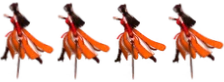
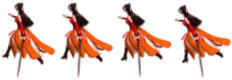
Tăng biên độ animation Việt★ cho dễ thấy khi đứng/chạy/đánh

Changed region(s): [[0.0, 0.025, 0.75, 0.975], [0.75, 0.025, 1.0, 0.975], [0.4062, 0.65, 0.4688, 0.775]]

diff --git a/index.html b/index.html
@@ -9,10 +9,10 @@
 <link rel="manifest" href="manifest.json">
 <title>NamQuoc Idle</title>
 <link rel="stylesheet" href="fonts/ibm-plex-mono.css">
-<link rel="stylesheet" href="style.css?v=287">
-<link rel="stylesheet" href="jx1ui.css?v=287">
-<link rel="stylesheet" href="jx1ui2.css?v=287">
-<link rel="stylesheet" href="ui20.css?v=287">
+<link rel="stylesheet" href="style.css?v=288">
+<link rel="stylesheet" href="jx1ui.css?v=288">
+<link rel="stylesheet" href="jx1ui2.css?v=288">
+<link rel="stylesheet" href="ui20.css?v=288">
 </head>
 <body>
 <div id="bootLoad" aria-live="polite">
@@ -88,73 +88,73 @@
   <div id="modal" class="hidden" role="dialog" aria-modal="true"><div class="mbox" tabindex="-1"><button class="mx" id="mClose">✕</button><div id="mBody"></div></div></div>
   <div id="toast" role="status" aria-live="polite"></div>
 </div>
-<script src="data.js?v=287"></script>
-<script src="setvi.js?v=287"></script>
-<script src="setfix.js?v=287"></script>
-<script src="world.js?v=287"></script>
-<script src="zones2.js?v=287"></script>
-<script src="js/som_hoason_data.js?v=287"></script>
-<script src="js/som_hoason.js?v=287"></script>
-<script src="sound.js?v=287"></script>
-<script src="fx.js?v=287"></script>
-<script src="jmo.js?v=287"></script>
-<script src="jmo2.js?v=287"></script>
-<script src="js/core.js?v=287"></script>
-<script src="js/mapobs.js?v=287"></script>
-<script src="js/stats.js?v=287"></script>
-<script src="js/vocong.js?v=287"></script>
-<script src="js/skillsys.js?v=287"></script>
-<script src="js/kytran.js?v=287"></script>
-<script src="js/loot.js?v=287"></script>
-<script src="rdata.js?v=287"></script>
-<script src="js/sets.js?v=287"></script>
-<script src="js/recipes.js?v=287"></script>
-<script src="js/combat.js?v=287"></script>
-<script src="js/field.js?v=287"></script>
-<script src="js/ride.js?v=287"></script>
-<script src="js/save.js?v=287"></script>
-<script src="js/render.js?v=287"></script>
-<script src="js/som_anim.js?v=287"></script>
-<script src="js/jxmis.js?v=287"></script>
-<script src="jxstate.js?v=287"></script>
-<script src="fx2.js?v=287"></script>
-<script src="fx3.js?v=287"></script>
-<script src="js/skillfx.js?v=287"></script>
-<script src="js/look.js?v=287"></script>
-<script src="js/jxparts.js?v=287"></script>
-<script src="js/audio.js?v=287"></script>
-<script src="js/ui.js?v=287"></script>
-<script src="js/control.js?v=287"></script>
-<script src="js/shop.js?v=287"></script>
-<script src="js/potsel.js?v=287"></script>
-<script src="js/rewards.js?v=287"></script>
-<script src="js/title.js?v=287"></script>
-<script src="js/records.js?v=287"></script>
-<script src="js/horse.js?v=287"></script>
-<script src="js/thanma.js?v=287"></script>
-<script src="js/dungeon.js?v=287"></script>
-<script src="js/giangho.js?v=287"></script>
-<script src="js/forge.js?v=287"></script>
-<script src="js/epdo.js?v=287"></script>
-<script src="js/thuyen.js?v=287"></script>
-<script src="js/mode.js?v=287"></script>
-<script src="js/tabs2.js?v=287"></script>
-<script src="js/auto.js?v=287"></script>
-<script src="js/guide.js?v=287"></script>
-<script src="js/stash.js?v=287"></script>
-<script src="js/donkho.js?v=287"></script>
-<script src="js/name.js?v=287"></script>
-<script src="js/chatcfg.js?v=287"></script>
-<script src="js/chat.js?v=287"></script>
-<script src="js/net.js?v=287"></script>
-<script src="js/mp.js?v=287"></script>
-<script src="js/mp_auth.js?v=287"></script>
-<script src="js/ui20.js?v=287"></script>
-<script src="js/ui20win.js?v=287"></script>
-<script src="js/admin.js?v=287"></script>
-<script src="js/tho_test_fx_data.js?v=287"></script>
-<script src="js/viet_char_data.js?v=287"></script>
-<script src="js/tho_test.js?v=287"></script>
-<script src="js/main.js?v=287"></script>
+<script src="data.js?v=288"></script>
+<script src="setvi.js?v=288"></script>
+<script src="setfix.js?v=288"></script>
+<script src="world.js?v=288"></script>
+<script src="zones2.js?v=288"></script>
+<script src="js/som_hoason_data.js?v=288"></script>
+<script src="js/som_hoason.js?v=288"></script>
+<script src="sound.js?v=288"></script>
+<script src="fx.js?v=288"></script>
+<script src="jmo.js?v=288"></script>
+<script src="jmo2.js?v=288"></script>
+<script src="js/core.js?v=288"></script>
+<script src="js/mapobs.js?v=288"></script>
+<script src="js/stats.js?v=288"></script>
+<script src="js/vocong.js?v=288"></script>
+<script src="js/skillsys.js?v=288"></script>
+<script src="js/kytran.js?v=288"></script>
+<script src="js/loot.js?v=288"></script>
+<script src="rdata.js?v=288"></script>
+<script src="js/sets.js?v=288"></script>
+<script src="js/recipes.js?v=288"></script>
+<script src="js/combat.js?v=288"></script>
+<script src="js/field.js?v=288"></script>
+<script src="js/ride.js?v=288"></script>
+<script src="js/save.js?v=288"></script>
+<script src="js/render.js?v=288"></script>
+<script src="js/som_anim.js?v=288"></script>
+<script src="js/jxmis.js?v=288"></script>
+<script src="jxstate.js?v=288"></script>
+<script src="fx2.js?v=288"></script>
+<script src="fx3.js?v=288"></script>
+<script src="js/skillfx.js?v=288"></script>
+<script src="js/look.js?v=288"></script>
+<script src="js/jxparts.js?v=288"></script>
+<script src="js/audio.js?v=288"></script>
+<script src="js/ui.js?v=288"></script>
+<script src="js/control.js?v=288"></script>
+<script src="js/shop.js?v=288"></script>
+<script src="js/potsel.js?v=288"></script>
+<script src="js/rewards.js?v=288"></script>
+<script src="js/title.js?v=288"></script>
+<script src="js/records.js?v=288"></script>
+<script src="js/horse.js?v=288"></script>
+<script src="js/thanma.js?v=288"></script>
+<script src="js/dungeon.js?v=288"></script>
+<script src="js/giangho.js?v=288"></script>
+<script src="js/forge.js?v=288"></script>
+<script src="js/epdo.js?v=288"></script>
+<script src="js/thuyen.js?v=288"></script>
+<script src="js/mode.js?v=288"></script>
+<script src="js/tabs2.js?v=288"></script>
+<script src="js/auto.js?v=288"></script>
+<script src="js/guide.js?v=288"></script>
+<script src="js/stash.js?v=288"></script>
+<script src="js/donkho.js?v=288"></script>
+<script src="js/name.js?v=288"></script>
+<script src="js/chatcfg.js?v=288"></script>
+<script src="js/chat.js?v=288"></script>
+<script src="js/net.js?v=288"></script>
+<script src="js/mp.js?v=288"></script>
+<script src="js/mp_auth.js?v=288"></script>
+<script src="js/ui20.js?v=288"></script>
+<script src="js/ui20win.js?v=288"></script>
+<script src="js/admin.js?v=288"></script>
+<script src="js/tho_test_fx_data.js?v=288"></script>
+<script src="js/viet_char_data.js?v=288"></script>
+<script src="js/tho_test.js?v=288"></script>
+<script src="js/main.js?v=288"></script>
 </body>
 </html>

diff --git a/js/viet_char_data.js b/js/viet_char_data.js
@@ -1,2 +1,2 @@
 /* auto-generated by tools/viet_char_build.py — nhân Việt★ trẻ + animation */
-(typeof window!=="undefined"?window:globalThis).VIET_CHAR = {"series":"Việt★","seriesCol":"#d4a017","seriesDesc":"Admin · nhân Việt trẻ (Yên Tử★ · Bạch Đằng★)","heroes":{"wudang_t":{"img":"img/pl/viet_ys.png","sz":[54,78,27,76],"anim":"pl_viet_ys","anim8":"pl_viet_ys_8","khId":600,"mode":"gold"},"kunlun_t":{"img":"img/pl/viet_bd.png","sz":[55,78,27,76],"anim":"pl_viet_bd","anim8":"pl_viet_bd_8","khId":75,"mode":"son"}},"anims":{"pl_viet_ys":{"st":{"f":"pl_viet_ys_st.webp","n":8,"d":1,"w":56,"h":83,"ax":28,"ay":81,"ms":120,"fixed":1,"flip":1},"run":{"f":"pl_viet_ys_run.webp","n":6,"d":1,"w":56,"h":86,"ax":28,"ay":84,"ms":90,"fixed":1,"flip":1},"at":{"f":"pl_viet_ys_at.webp","n":7,"d":1,"w":63,"h":88,"ax":31,"ay":86,"ms":70,"fixed":1,"flip":1},"hurt":{"f":"pl_viet_ys_hurt.webp","n":4,"d":1,"w":55,"h":85,"ax":27,"ay":83,"ms":100,"fixed":1,"flip":1},"die":{"f":"pl_viet_ys_die.webp","n":6,"d":1,"w":82,"h":82,"ax":41,"ay":80,"ms":110,"fixed":1,"flip":1}},"pl_viet_ys_8":{"st":{"n":11,"d":8,"w":65,"h":47,"ax":32,"ay":45,"ms":143,"f":"pl_viet_ys_8_st.webp","fixed":1},"run":{"n":6,"d":8,"w":72,"h":47,"ax":36,"ay":47,"ms":71,"f":"pl_viet_ys_8_run.webp","fixed":1},"at":{"n":8,"d":8,"w":97,"h":79,"ax":49,"ay":77,"ms":62,"f":"pl_viet_ys_8_at.webp","fixed":1},"hurt":{"n":4,"d":8,"w":65,"h":50,"ax":32,"ay":48,"ms":83,"f":"pl_viet_ys_8_hurt.webp","fixed":1},"die":{"n":6,"d":8,"w":130,"h":75,"ax":65,"ay":53,"ms":100,"f":"pl_viet_ys_8_die.webp","fixed":1}},"pl_viet_bd":{"st":{"f":"pl_viet_bd_st.webp","n":8,"d":1,"w":57,"h":83,"ax":28,"ay":81,"ms":120,"fixed":1,"flip":1},"run":{"f":"pl_viet_bd_run.webp","n":6,"d":1,"w":59,"h":85,"ax":29,"ay":83,"ms":90,"fixed":1,"flip":1},"at":{"f":"pl_viet_bd_at.webp","n":7,"d":1,"w":63,"h":84,"ax":31,"ay":82,"ms":70,"fixed":1,"flip":1},"hurt":{"f":"pl_viet_bd_hurt.webp","n":4,"d":1,"w":56,"h":82,"ax":28,"ay":80,"ms":100,"fixed":1,"flip":1},"die":{"f":"pl_viet_bd_die.webp","n":6,"d":1,"w":72,"h":82,"ax":36,"ay":80,"ms":110,"fixed":1,"flip":1}},"pl_viet_bd_8":{"st":{"n":11,"d":8,"w":65,"h":47,"ax":32,"ay":45,"ms":143,"f":"pl_viet_bd_8_st.webp","fixed":1},"run":{"n":6,"d":8,"w":72,"h":47,"ax":36,"ay":47,"ms":71,"f":"pl_viet_bd_8_run.webp","fixed":1},"at":{"n":8,"d":8,"w":97,"h":79,"ax":49,"ay":77,"ms":62,"f":"pl_viet_bd_8_at.webp","fixed":1},"hurt":{"n":4,"d":8,"w":65,"h":50,"ax":32,"ay":48,"ms":83,"f":"pl_viet_bd_8_hurt.webp","fixed":1},"die":{"n":6,"d":8,"w":130,"h":75,"ax":65,"ay":53,"ms":100,"f":"pl_viet_bd_8_die.webp","fixed":1}}},"factions":{"wudang_t":{"n":"Yên Tử★","short":"Yên Tử★"},"kunlun_t":{"n":"Bạch Đằng★","short":"Bạch Đằng★"}}};
+window.VIET_CHAR = {"series":"Việt★","seriesCol":"#d4a017","seriesDesc":"Admin · nhân Việt trẻ (Yên Tử★ · Bạch Đằng★)","heroes":{"wudang_t":{"img":"img/pl/viet_ys.png","sz":[54,78,27,76],"anim":"pl_viet_ys","anim8":"pl_viet_ys_8","khId":600,"mode":"gold"},"kunlun_t":{"img":"img/pl/viet_bd.png","sz":[55,78,27,76],"anim":"pl_viet_bd","anim8":"pl_viet_bd_8","khId":75,"mode":"son"}},"anims":{"pl_viet_ys":{"st":{"f":"pl_viet_ys_st.webp","n":8,"d":1,"w":58,"h":85,"ax":29,"ay":83,"ms":120,"fixed":1,"flip":1},"run":{"f":"pl_viet_ys_run.webp","n":6,"d":1,"w":57,"h":91,"ax":28,"ay":89,"ms":90,"fixed":1,"flip":1},"at":{"f":"pl_viet_ys_at.webp","n":7,"d":1,"w":70,"h":91,"ax":35,"ay":89,"ms":70,"fixed":1,"flip":1},"hurt":{"f":"pl_viet_ys_hurt.webp","n":4,"d":1,"w":58,"h":86,"ax":29,"ay":84,"ms":100,"fixed":1,"flip":1},"die":{"f":"pl_viet_ys_die.webp","n":6,"d":1,"w":80,"h":82,"ax":40,"ay":80,"ms":110,"fixed":1,"flip":1}},"pl_viet_ys_8":{"st":{"n":11,"d":8,"w":65,"h":47,"ax":32,"ay":45,"ms":143,"f":"pl_viet_ys_8_st.webp","fixed":1},"run":{"n":6,"d":8,"w":72,"h":47,"ax":36,"ay":47,"ms":71,"f":"pl_viet_ys_8_run.webp","fixed":1},"at":{"n":8,"d":8,"w":97,"h":79,"ax":49,"ay":77,"ms":62,"f":"pl_viet_ys_8_at.webp","fixed":1},"hurt":{"n":4,"d":8,"w":65,"h":50,"ax":32,"ay":48,"ms":83,"f":"pl_viet_ys_8_hurt.webp","fixed":1},"die":{"n":6,"d":8,"w":130,"h":75,"ax":65,"ay":53,"ms":100,"f":"pl_viet_ys_8_die.webp","fixed":1}},"pl_viet_bd":{"st":{"f":"pl_viet_bd_st.webp","n":8,"d":1,"w":59,"h":84,"ax":29,"ay":82,"ms":120,"fixed":1,"flip":1},"run":{"f":"pl_viet_bd_run.webp","n":6,"d":1,"w":59,"h":87,"ax":29,"ay":85,"ms":90,"fixed":1,"flip":1},"at":{"f":"pl_viet_bd_at.webp","n":7,"d":1,"w":66,"h":85,"ax":33,"ay":83,"ms":70,"fixed":1,"flip":1},"hurt":{"f":"pl_viet_bd_hurt.webp","n":4,"d":1,"w":58,"h":80,"ax":29,"ay":78,"ms":100,"fixed":1,"flip":1},"die":{"f":"pl_viet_bd_die.webp","n":6,"d":1,"w":70,"h":82,"ax":35,"ay":80,"ms":110,"fixed":1,"flip":1}},"pl_viet_bd_8":{"st":{"n":11,"d":8,"w":65,"h":47,"ax":32,"ay":45,"ms":143,"f":"pl_viet_bd_8_st.webp","fixed":1},"run":{"n":6,"d":8,"w":72,"h":47,"ax":36,"ay":47,"ms":71,"f":"pl_viet_bd_8_run.webp","fixed":1},"at":{"n":8,"d":8,"w":97,"h":79,"ax":49,"ay":77,"ms":62,"f":"pl_viet_bd_8_at.webp","fixed":1},"hurt":{"n":4,"d":8,"w":65,"h":50,"ax":32,"ay":48,"ms":83,"f":"pl_viet_bd_8_hurt.webp","fixed":1},"die":{"n":6,"d":8,"w":130,"h":75,"ax":65,"ay":53,"ms":100,"f":"pl_viet_bd_8_die.webp","fixed":1}}},"factions":{"wudang_t":{"n":"Yên Tử★","short":"Yên Tử★"},"kunlun_t":{"n":"Bạch Đằng★","short":"Bạch Đằng★"}}};

diff --git a/tools/viet_char_build.py b/tools/viet_char_build.py
@@ -251,31 +251,34 @@ def build_kh_anims(base: Image.Image, out_stem: str) -> dict:
             t = i / max(1, n - 1)
             kind = sp['kind']
             if kind == 'idle':
-                dy = int(round(math.sin(i / n * math.pi * 2) * 2))
-                rot = math.sin(i / n * math.pi * 2) * 1.2
-                scale = 1.0 + 0.012 * math.sin(i / n * math.pi * 2)
-                fr = transform_sprite(base, dy=dy, rot=rot, scale=scale)
+                dy = int(round(math.sin(i / n * math.pi * 2) * 5))
+                rot = math.sin(i / n * math.pi * 2) * 3.5
+                scale = 1.0 + 0.03 * math.sin(i / n * math.pi * 2)
+                shear = math.sin(i / n * math.pi * 2) * 0.03
+                fr = transform_sprite(base, dy=dy, rot=rot, scale=scale, shear=shear)
             elif kind == 'run':
-                dy = int(round(abs(math.sin(i / n * math.pi * 2)) * 4))
-                shear = math.sin(i / n * math.pi * 2) * 0.06
-                rot = math.sin(i / n * math.pi * 2) * 3
-                fr = transform_sprite(base, dy=-dy, shear=shear, rot=rot, scale=1.02)
+                dy = int(round(abs(math.sin(i / n * math.pi * 2)) * 8))
+                shear = math.sin(i / n * math.pi * 2) * 0.12
+                rot = math.sin(i / n * math.pi * 2) * 8
+                dx = int(round(math.sin(i / n * math.pi * 2) * 3))
+                fr = transform_sprite(base, dy=-dy, dx=dx, shear=shear, rot=rot, scale=1.04)
             elif kind == 'at':
                 # rút → đánh → thu
                 phase = math.sin(t * math.pi)
-                rot = -8 + phase * 22
-                dx = int(round(phase * 6))
-                shear = phase * 0.08
-                fr = transform_sprite(base, dx=dx, rot=rot, shear=shear, scale=1.0 + phase * 0.04)
+                rot = -14 + phase * 38
+                dx = int(round(phase * 12))
+                dy = int(round(-phase * 4))
+                shear = phase * 0.14
+                fr = transform_sprite(base, dx=dx, dy=dy, rot=rot, shear=shear, scale=1.0 + phase * 0.08)
             elif kind == 'hurt':
-                dx = int(round((i - n / 2) * 2))
-                rot = -6 + i * 3
-                fr = transform_sprite(base, dx=dx, rot=rot, scale=0.98)
+                dx = int(round((i - n / 2) * 4))
+                rot = -10 + i * 6
+                fr = transform_sprite(base, dx=dx, rot=rot, scale=0.96)
             else:  # die
-                rot = t * 70
-                dy = int(round(t * 10))
-                alpha = int(round(255 * (1 - t * 0.55)))
-                fr = transform_sprite(base, dy=dy, rot=rot, scale=1.0 - t * 0.08)
+                rot = t * 85
+                dy = int(round(t * 16))
+                alpha = int(round(255 * (1 - t * 0.6)))
+                fr = transform_sprite(base, dy=dy, rot=rot, scale=1.0 - t * 0.12)
                 # fade
                 arr = np.asarray(fr).copy()
                 arr[..., 3] = (arr[..., 3].astype(np.float32) * (alpha / 255.0)).astype(np.uint8)
